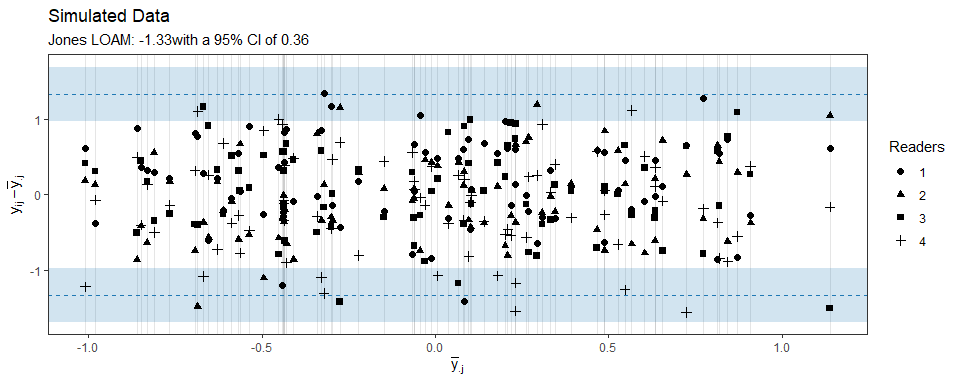
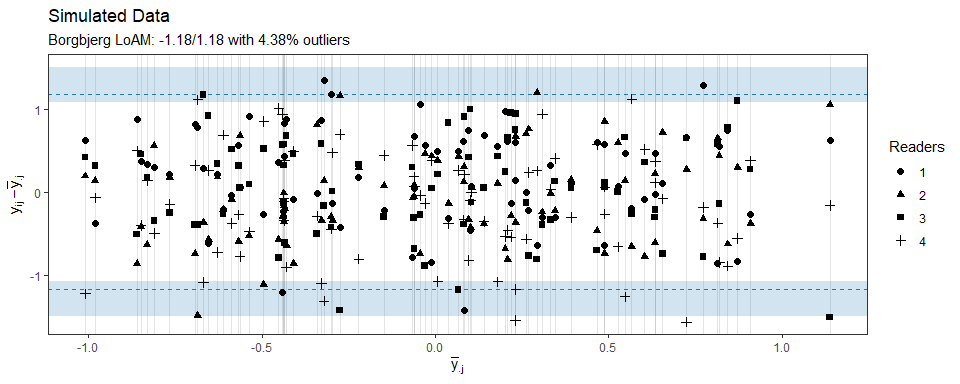
new

diff --git a/README.md b/README.md
@@ -44,10 +44,10 @@ LOAM(Jones)
 #> The data has 195 measurements from 39 individuals by 5 readers
 #> 
 #> Jones' LoAM
-#> [1] -1.14755  1.14755
+#> [1] -1.147529  1.147529
 #> 
 #> Borgbjerg's LoAM
-#> [1] -1.142867  1.142867
+#> [1] -1.142846  1.142846
 #> 
 #> Standard Error: 0.34
 #> Maybe some text here also...
@@ -56,7 +56,7 @@ LOAM(Jones)
 The S3 class includes a generic plotting function made with ggplot2
 
 ``` r
-plot(LOAM(Jones))
+grid.arrange(plot(LOAM(Jones), CI="sym"), plot(LOAM(Jones), CI="asym"), nrow=1)
 ```
 
 ![](man/figures/README-unnamed-chunk-5-1.png)<!-- -->
@@ -74,10 +74,10 @@ LOAM(sim)
 #> The data has 320 measurements from 80 individuals by 4 readers
 #> 
 #> Jones' LoAM
-#> [1] -1.334906  1.334906
+#> [1] -1.334881  1.334881
 #> 
 #> Borgbjerg's LoAM
-#> [1] -1.176248  1.176248
+#> [1] -1.176226  1.176226
 #> 
 #> Standard Error: 0.3601518
 #> Maybe some text here also...
